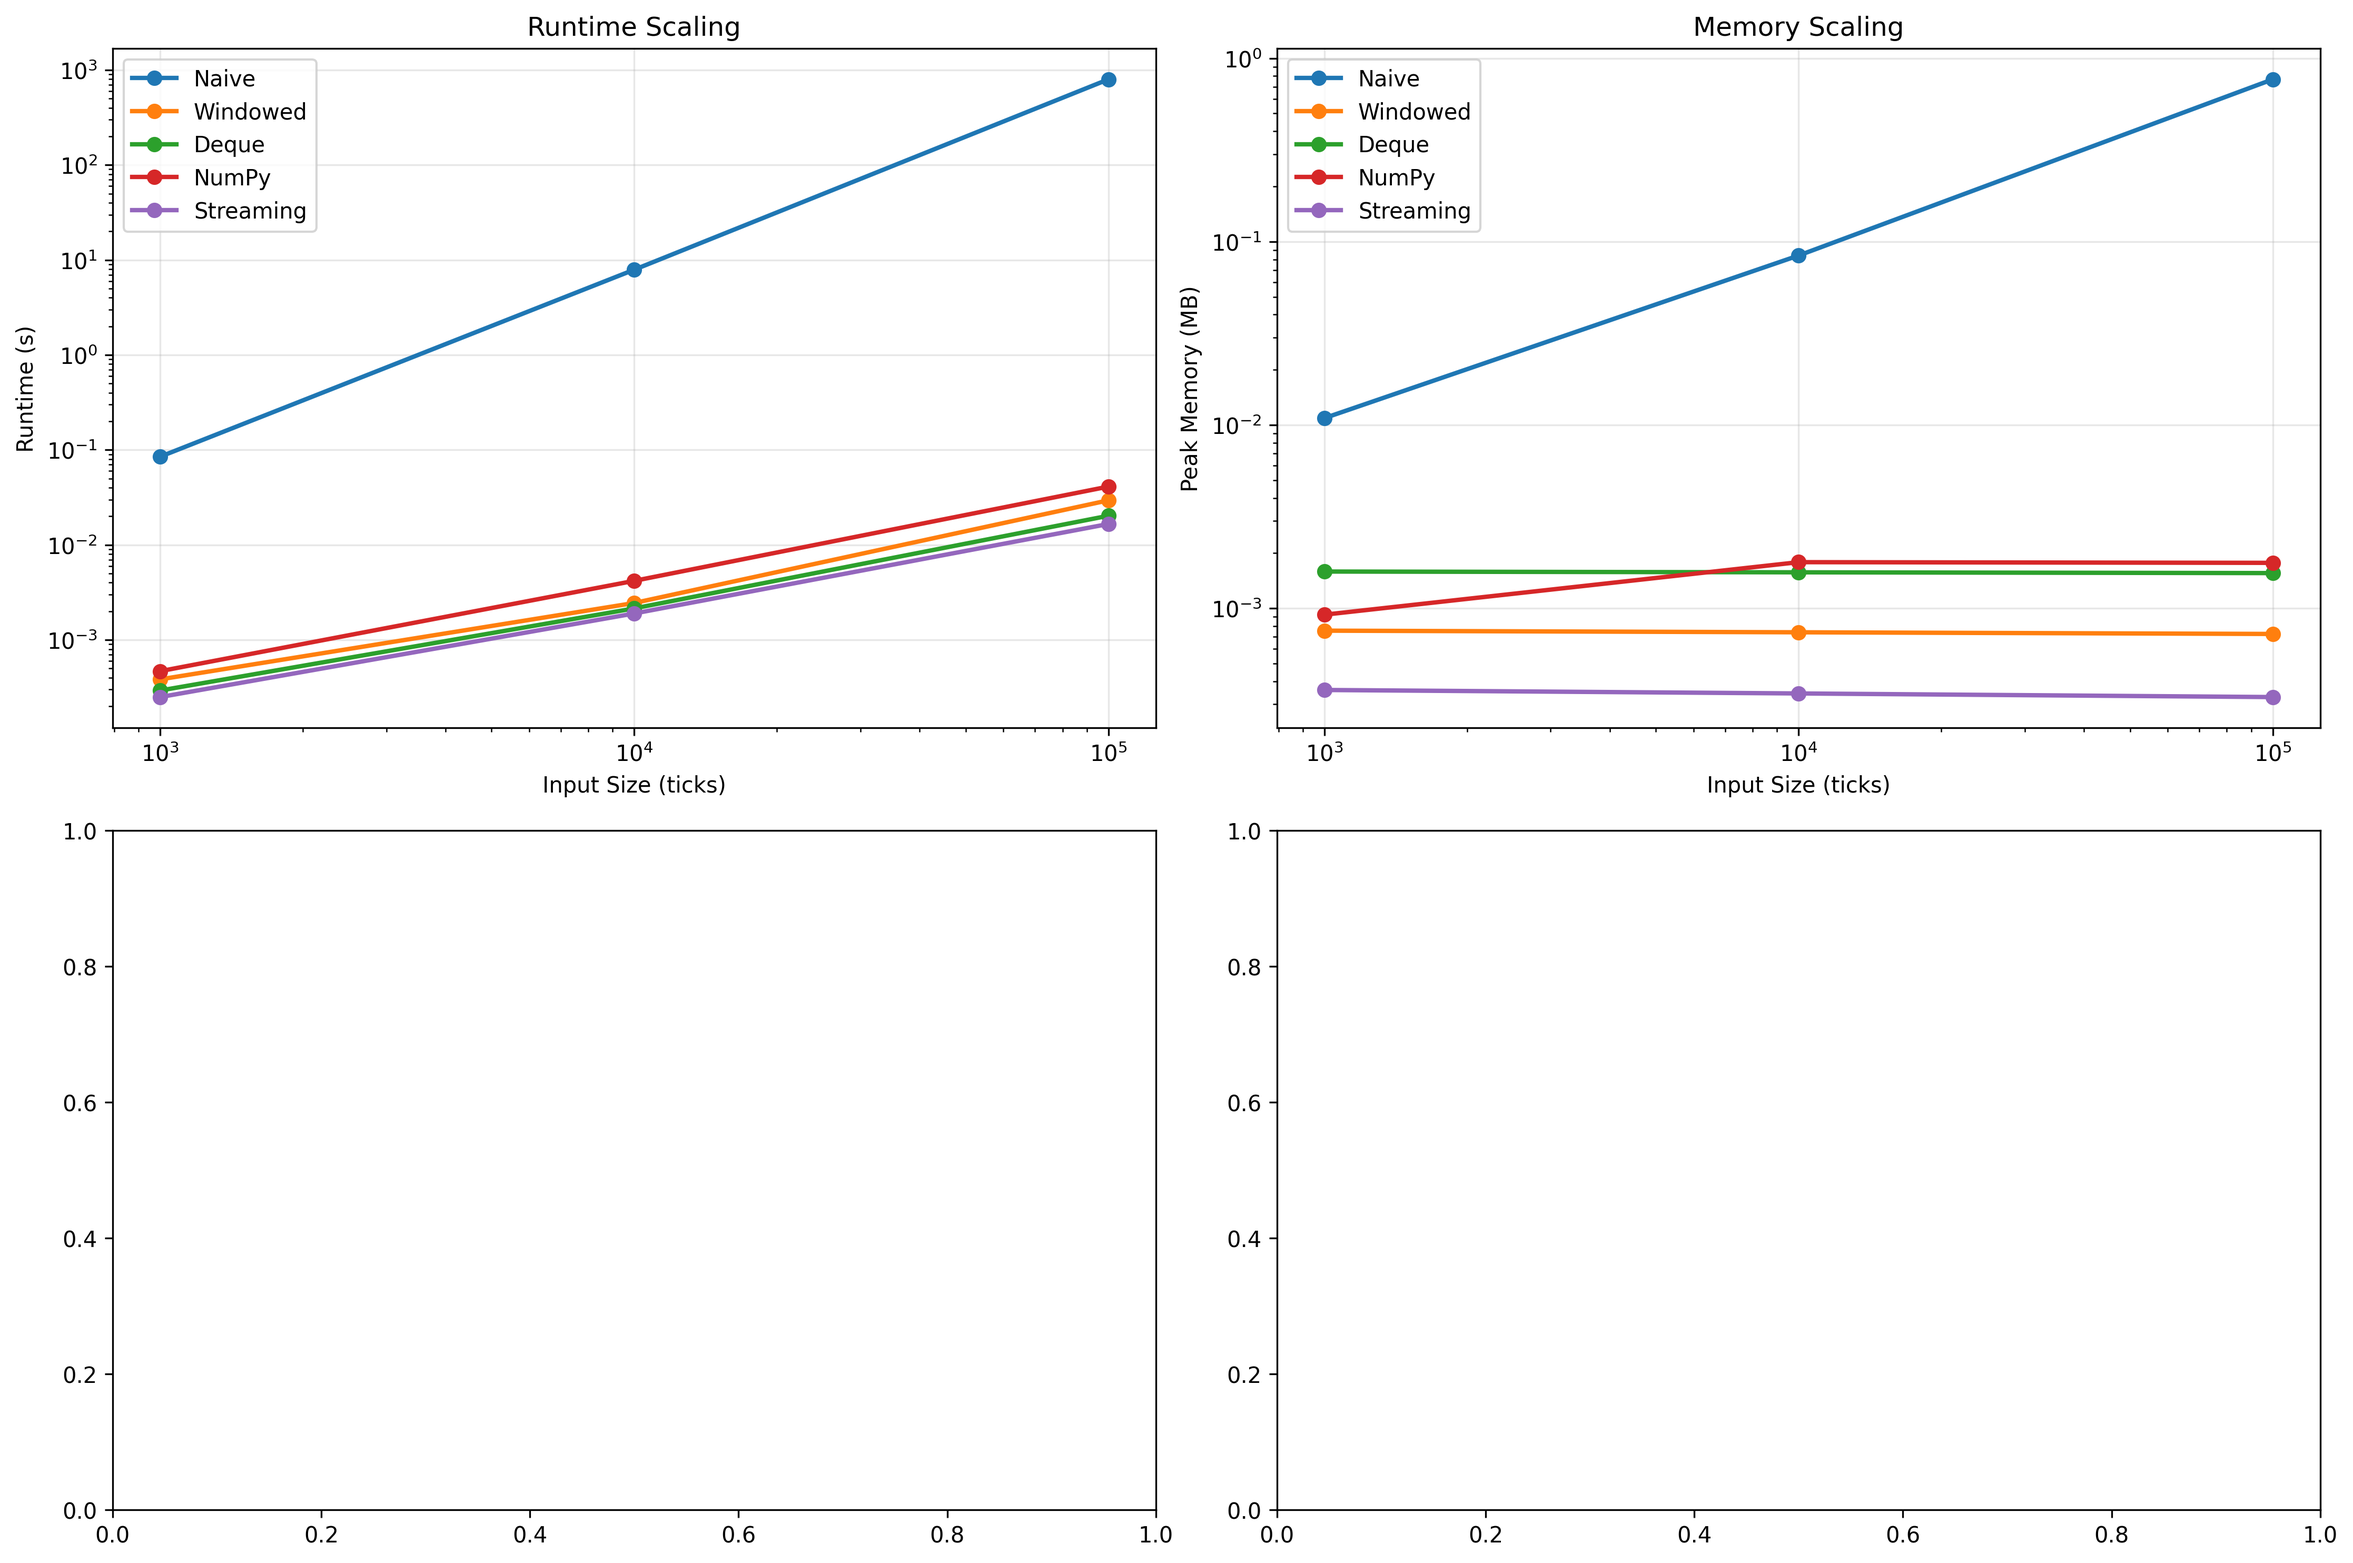
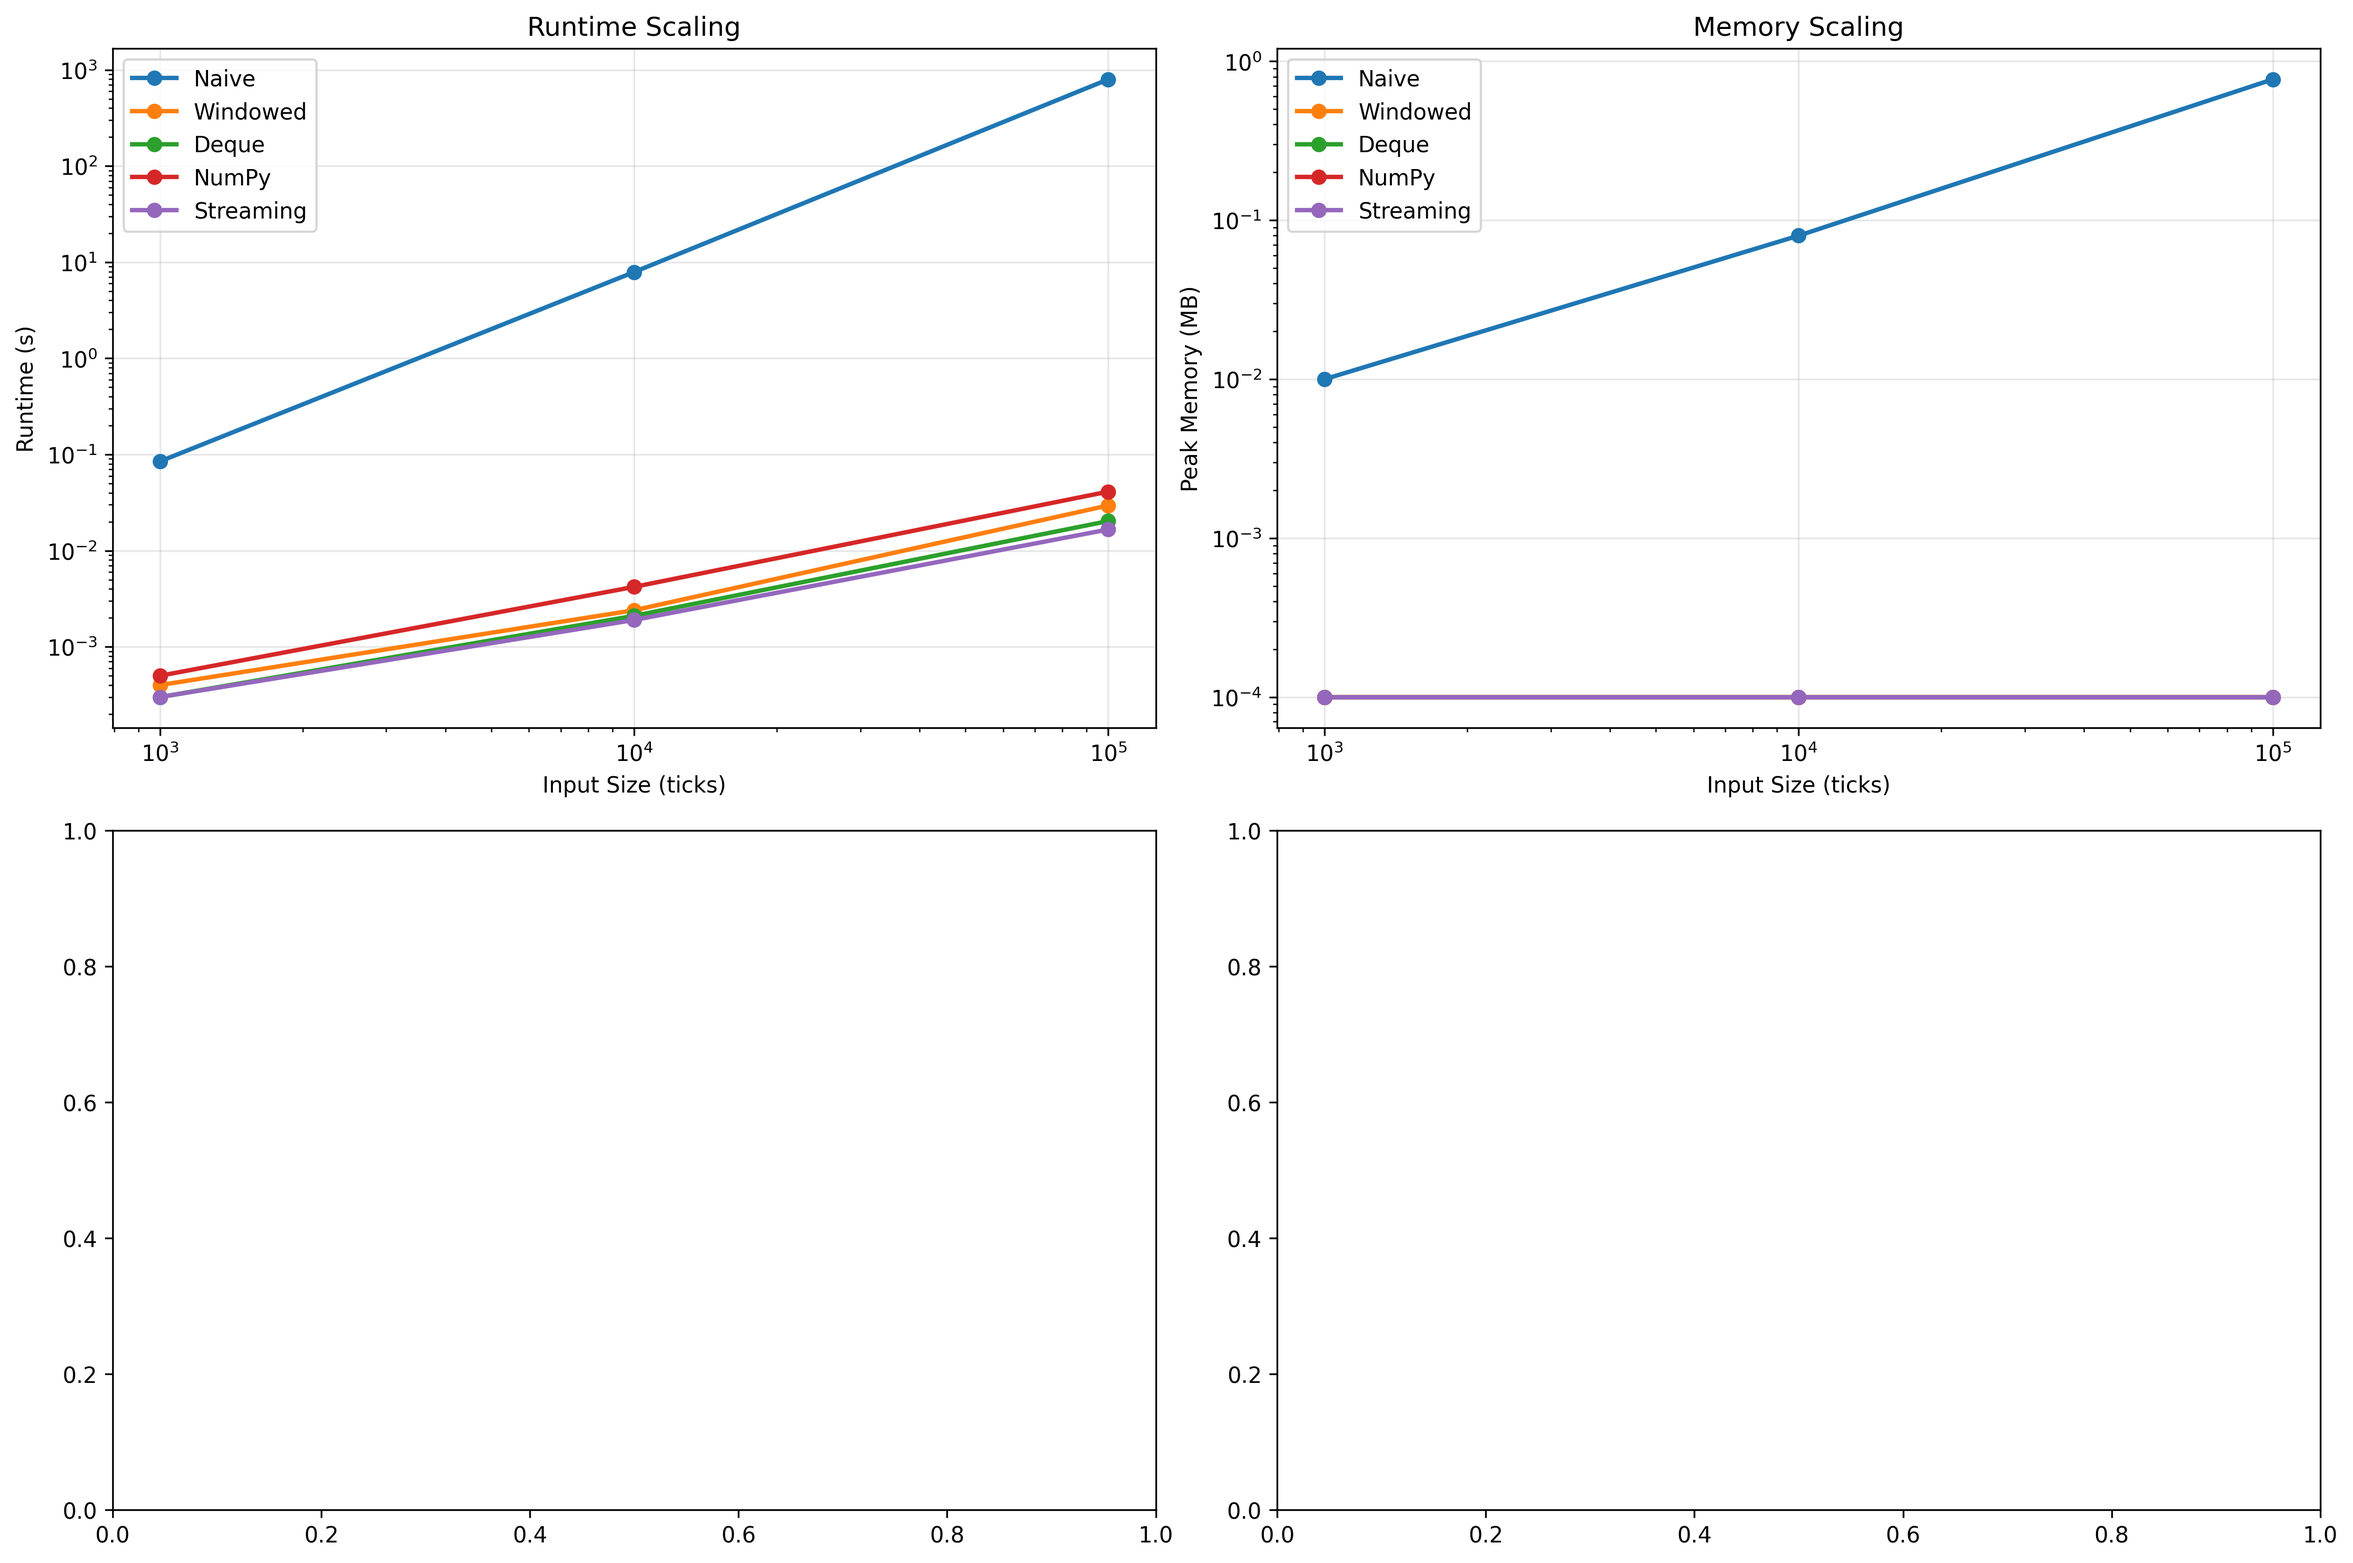
Fixing memory plots

diff --git a/profiler.py b/profiler.py
@@ -32,7 +32,11 @@ def measure_memory(strategy_class, data, **kwargs):
         strategy.generate_signals(tick)
     _, peak = tracemalloc.get_traced_memory()
     tracemalloc.stop()
-    return peak / (1024 * 1024)  # bytes to MB
+    
+    peak_mb = peak / (1024 * 1024)  # bytes to MB
+    
+    # Prevent log(0) errors in Matplotlib by setting a tiny floor value
+    return max(peak_mb, 0.0001)
 
 def profile_cprofile(strategy_class, data, **kwargs):
     # cProfile the strategy execution
